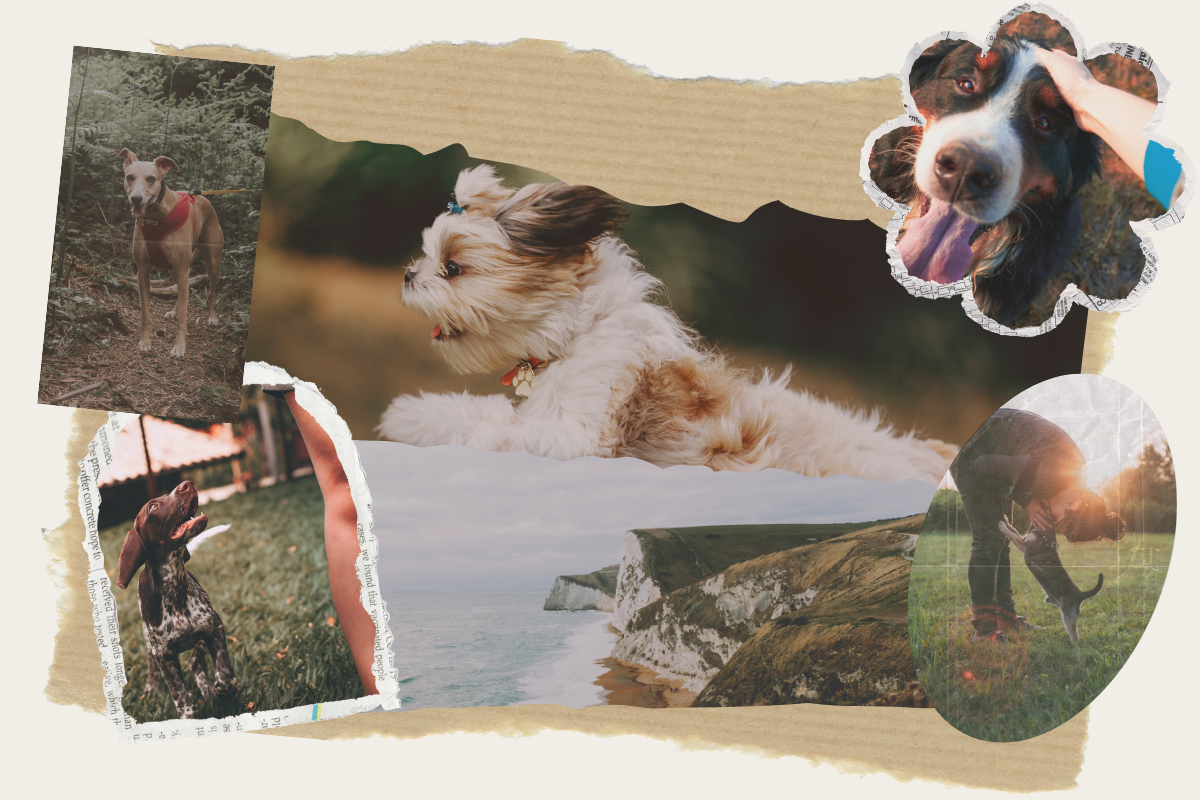
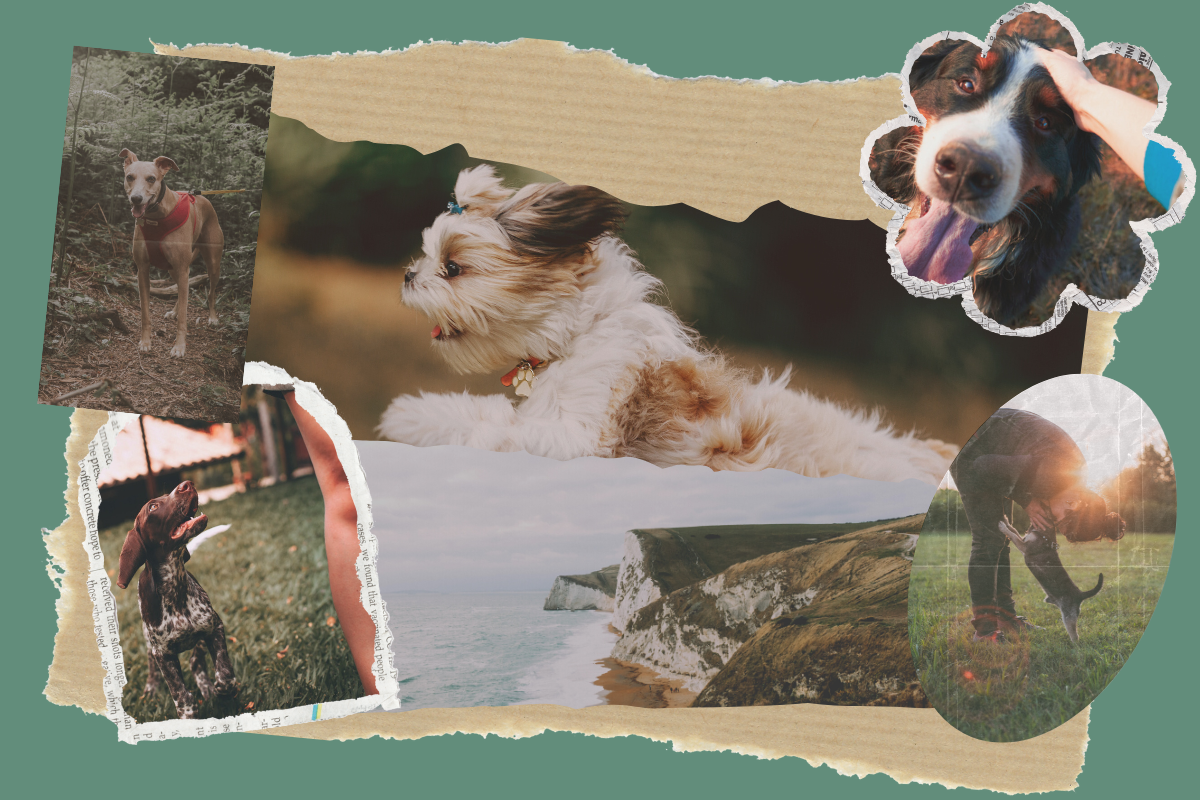
Replace images, more styling changes

Changed region(s): [[0.0, 0.0, 1.0, 1.0]]

diff --git a/index.html b/index.html
@@ -16,7 +16,7 @@
 <body>
     <header>
         <!-- Bootstrap 5 Navbar -->
-        <nav class="navbar navbar-expand-lg p-1 fixed-top navbar-dark green-bg">
+        <nav class="navbar navbar-expand-lg p-1 fixed-top navbar-dark coral-bg">
             <div class="container-fluid">
                 <!-- Logo Image -->
                 <a href="#" class="navbar-brand"><img src="assets/images/logo.png" alt="Floofy Doof Dog Care logo" class="img-fluid"></a>
@@ -52,7 +52,7 @@
         <!-- End of Bootstrap 5 Navbar-->
         
         <!--Tagline for sm screens-->
-        <section class="container-fluid green-bg">
+        <section class="container-fluid coral-bg">
             <div class="row g-0 pt-5 d-flex align-items-center justify-items-center d-md-none">
                 <h1 class=" text-center tagline">Come, Stay, Play!</h1>
             </div>
@@ -66,7 +66,7 @@
                 <img src="assets/images/hero-1.png" class="w-100">
             </div>
             <!--Hero Image 2-->
-            <div class="col-sm-12 col-md-6 mb-5">
+            <div class="col-sm-12 col-md-6">
                 <img src="assets/images/hero-2.png" class="w-100">
             </div>
         </div>
@@ -76,16 +76,15 @@
     <main>
 
         <!---------SERVICES SECTION----->
-        <section id="services">
+        <section id="services" class="pb-4">
             
             <!--Services Title-->
-            <div class="container-fluid g-0">
-                <div class="row g-0 ">  
-                    <h1 class="title-text-cream">Our Services...</h1>
-                </div>
+            <div class="container-fluid g-0 m-0 py-1 cream-bg">
+              <h1 class="title-text">Our Services...</h1>
             </div>
+            
             <!--Bootstrap 5 Cards-->
-            <div class="container-fluid g-4 text-center">
+            <div class="container-fluid g-4 green-bg py-3">
                 <div class="row my-5 mt-2 p-0"> 
                     <div class="col-md-4">
                         <div class="card cream-bg mt-3 no-border h-100">
@@ -115,11 +114,14 @@
                         </div>
                     </div>
                 </div> 
+            </div>
             
-                <div class="col-md-12 p-3 text-center">
-                    <a href="#contact" class="link-effect link-light">Find Out More</a>
+            
+                <div class="py-3 g-0 text-center">
+                    <a class="btn background-slide custom-button" data-bs-toggle="modal" data-bs-target="#modal-form">Contact Form</a>
                 </div>
             </div>
+            
 
             
         </section>
@@ -128,17 +130,14 @@
                 
         <!---------ABOUT SECTION----->
         <section id="about">
-
-            <div class="container-fluid g-0"> <!--border image-->
-                <div class="row g-0">
-                <img src="assets/images/top-border.png" alt="A border of green torn paper" class="img-fluid"/>
-                </div>
+            
+            <div class="container-fluid g-0 mb-5 py-1 cream-bg">
+                <h1 class="title-text">About Us...</h1>
             </div>
 
-            <div class="container-fluid g-0 cream-bg">
-                <div class="row g-0 d-flex justify-content-center align-content-center">
-                    <h1 class="title-text">About Us...</h1>
-                    <div class="col-md-8 px-4">
+            <div class="container"></div>
+                <div class="row d-flex align-items-center justify-content-center cream-bg curved-border">
+                    <div class="pt-4 col-md-8">
                         <p class="custom-text">Floofy Doof Dog Care is a team of three dog-crazy-hoomans offering floof-sitting services in and around Exmoor National Park.</p>
                         <p class="custom-text">You might see us sometimes when we're out-and-about in our Floofy Doof transport-van.  We’re usually on our way to or from a walk with our merry gang of doggos!</p>
                         <p class="custom-text">When we’re not rambling across the hills of Exmoor or playing fetch on the beach, we’re back at our bespoke doggy-day-care-facility, hanging with the pack!</p>
@@ -157,29 +156,29 @@
            
         <!---------CONTACT SECTION----->
         <section id="contact">
-            <div class="container-fluid g-0"> <!--bottom-border image-->
-                <div class="row g-0">
-                    <img src="assets/images/bottom-border.png" class="img-fluid"/>
-                </div>
-            </div> 
+
+            <div class="container-fluid g-0 m-0 py-1 cream-bg">
+                <h2 class="title-text">Get In Touch...</h2>
+            </div>
+          
             
-            <div class="container">
-                <div class="row g-4 mb-4 d-flex justify-content-center text-center">
-                    <h2 class="title-text-cream">Get In Touch...</h2>
-                    <div class="col-md-8 px-4 py-0">
-                        <p class="contact-text">Call, email or drop in to see us! <br/>Alternatively, fill out our contact form and we will get back to you within 48 hours.</p>
-                        <a class="btn background-slide custom-button" data-bs-toggle="modal" data-bs-target="#modal-form">Contact Form</a>
-                    </div>
-                </div>
+             
                 
-                <div class="row g-0 mt-0 p-3 d-flex align-items-center curved-border cream-bg important-text">
+            <div class="container curved-border cream-bg my-3">
+                <div class="row g-0 mt-0 p-4 d-flex align-items-center curved-border cream-bg important-text">
                     <div class="col-md-6">
-                        <div class="d-flex flex-column">
-                            <div class="p-2 d-flex justify-content-start align-items-center"><i class="fa-solid fa-location-dot icon-p"></i>Yenworthy Lodge, Oare, EX35 6NY</div>
-                            <div class="p-2 my-4 d-flex justify-content-start align-items-center"><i class="fa-solid fa-phone icon-p"></i>01643 70951</div>
-                            <div class="p-2 d-flex justify-content-start align-items-center"><i class="fa-solid fa-envelope icon-p"></i>contact@floofydoof.co.uk</div>
+                        
+                        <div class="d-flex flex-column pb-2">
+                            <div class="p-2 d-flex justify-content-center align-items-center"><i class="fa-solid fa-location-dot icon-p"></i>Yenworthy Lodge, Oare, EX35 6NY</div>
+                            <div class="p-2 d-flex justify-content-center align-items-center"><i class="fa-solid fa-phone icon-p"></i>01643 70951</div>
+                            <div class="p-2 d-flex justify-content-center align-items-center"><i class="fa-solid fa-envelope icon-p"></i>contact@floofydoof.co.uk</div>
+                        </div>
+                        <div class="pt-4">
+                            <p class="contact-text pb-2">Call, email or drop in to see us! <br/>Alternatively, fill out our contact form and we will get back to you within 48 hours.</p>
+                            <a class="btn background-slide custom-button" data-bs-toggle="modal" data-bs-target="#modal-form">Contact Form</a>
                         </div>
                     </div>
+
 
                     <div class="col-md-6">
                         <div class="ratio ratio-16x9">

diff --git a/assets/css/stylesheet.css b/assets/css/stylesheet.css
@@ -8,10 +8,10 @@
 
 body {
     
-    margin:0;
     padding: 70px 0px 0px 0px;
-    background-color: #628D7B;
+    background-color:#628D7B;
     color: black;
+    text-align: center;
 
 }
 
@@ -133,53 +133,21 @@ body {
 
 .custom-button {
     font-family: 'Nunito Sans', sans-serif !important;
-    background-color: #F1EEE7;
+    background-color:#F1EEE7;
+    border:#D76865 solid 4px;
+    border-radius: 25px;
     font-size: 17px;
-    font-weight:500;
+    font-weight:600;
     padding: 0.5rem, 0.5rem !important;
-    border: none;
     line-height: 1.6;
     position: relative !important;
-    border-radius: 5px;
     letter-spacing: 1px;
 
 }
 
 
 
-/*  BUTTON ANIMATION sourced from 'web dev sImplified' see README*/
-.custom-button.background-slide::before {
-    content: '' !important;
-    position: absolute !important;
-    top: 0 !important;
-    left: 0 !important;
-    bottom: 0 !important;
-    right: 0 !important;  
-    z-index: -1 !important;
-    background-color: black !important;
-    border-radius: 5px !important;
-    border: black 2px !important;
-    
-    transition: transform 300ms ease-in-out !important;
-    transform: scaleX(0) !important;
-    transform-origin: left !important;
-}
 
-.custom-button.background-slide:hover::before,
-.btn.btn-background-slide:focus::before {
-  transform: scaleX(1) !important;
-}
-
-.custom-button.background-slide {
-  transition: color 200ms ease-in-out !important;
-  z-index: 1 !important;
-}
-
-
-.custom-button.background-slide:hover,
-.custom-button.background-slide:focus {
-  color: white !important;
-}
 
 /* END OF BUTTONS */
 
@@ -222,6 +190,7 @@ body {
     font-weight: 300;
     font-family: 'Nunito Sans', sans-serif;
     line-height: 150%;
+    text-align: center;
     
 }
 
@@ -236,19 +205,12 @@ body {
 .black-text {
     font-size: 3.5vh !important;
     font-family: 'DM Serif Display', serif;
-    text-align: center;
+    text-align: center !important;
     letter-spacing: 0.5px;
     
 
 }
-.title-text-cream {
-    font-size: 6vh !important;
-    letter-spacing: 1px;
-    text-align: center;
-    font-family: 'DM Serif Display', serif;
-    color: #F1EEE7;
 
-}
 
 /* MODAL*/
 .form-text {
@@ -335,7 +297,7 @@ body {
 
 /* contact section icons */
 .icon-p {
-    padding-right: 35px;
+    padding-right: 15px;
     padding-left: 15px;
 }
 
